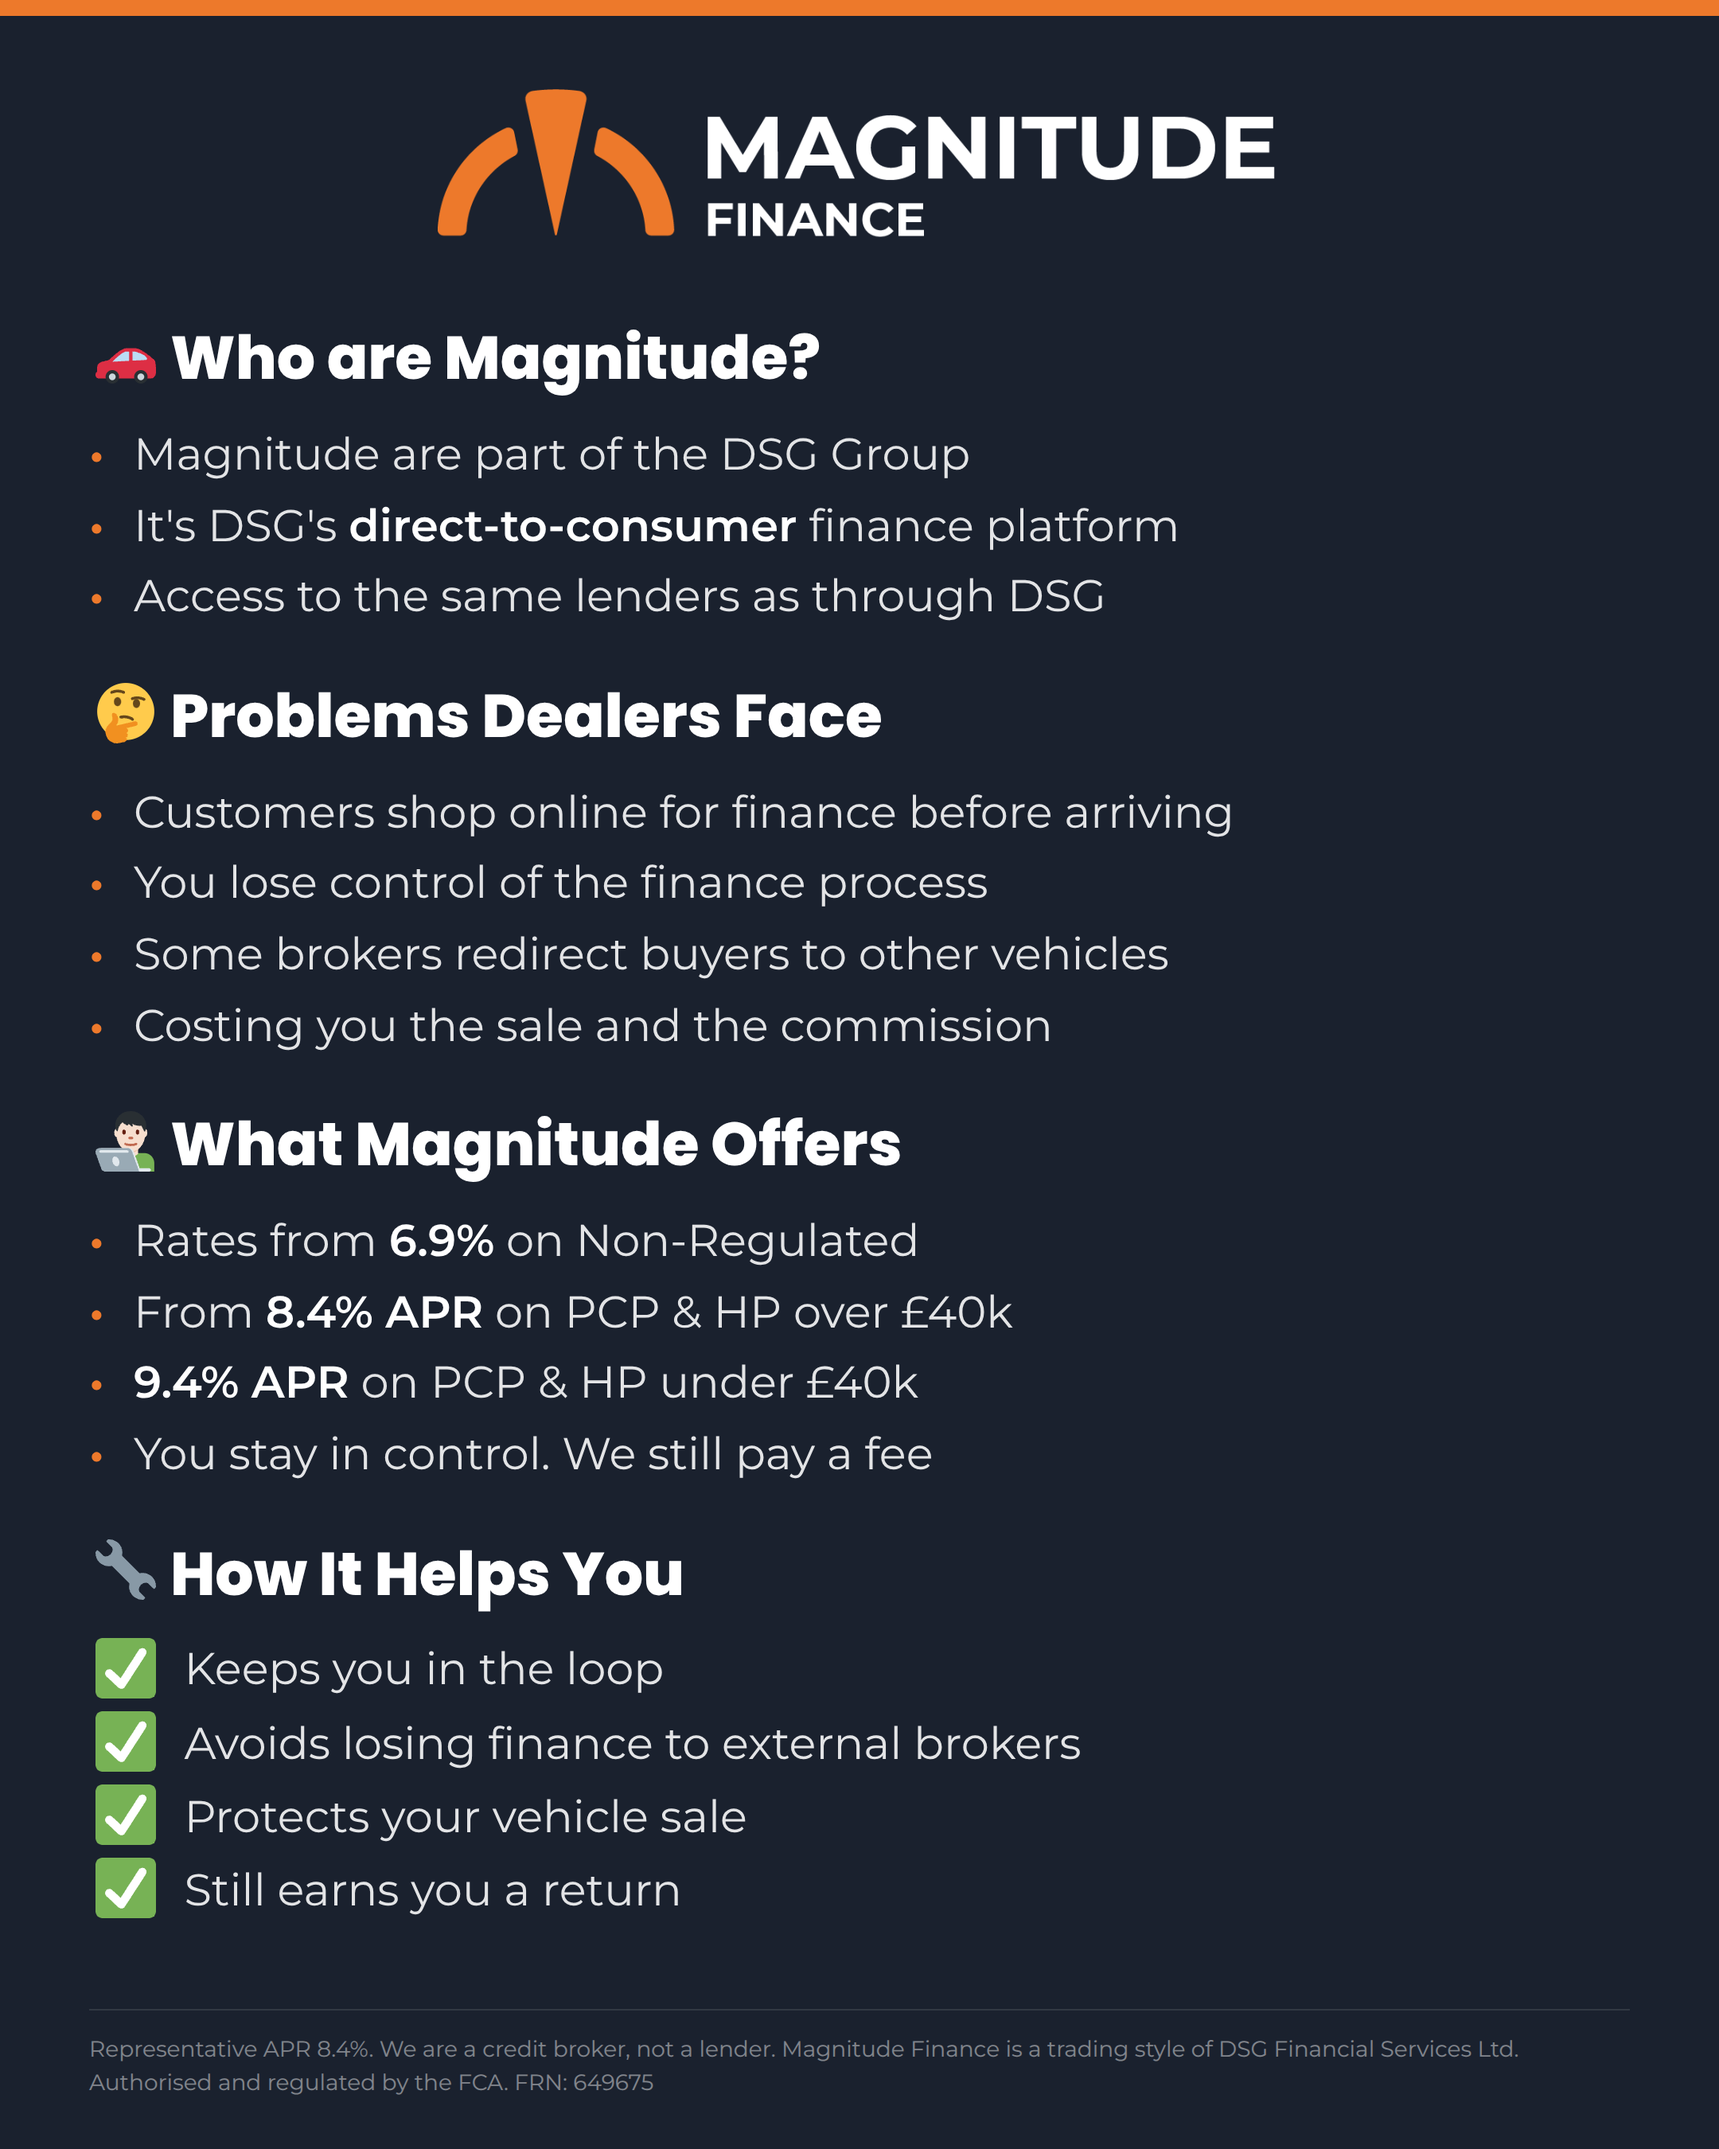
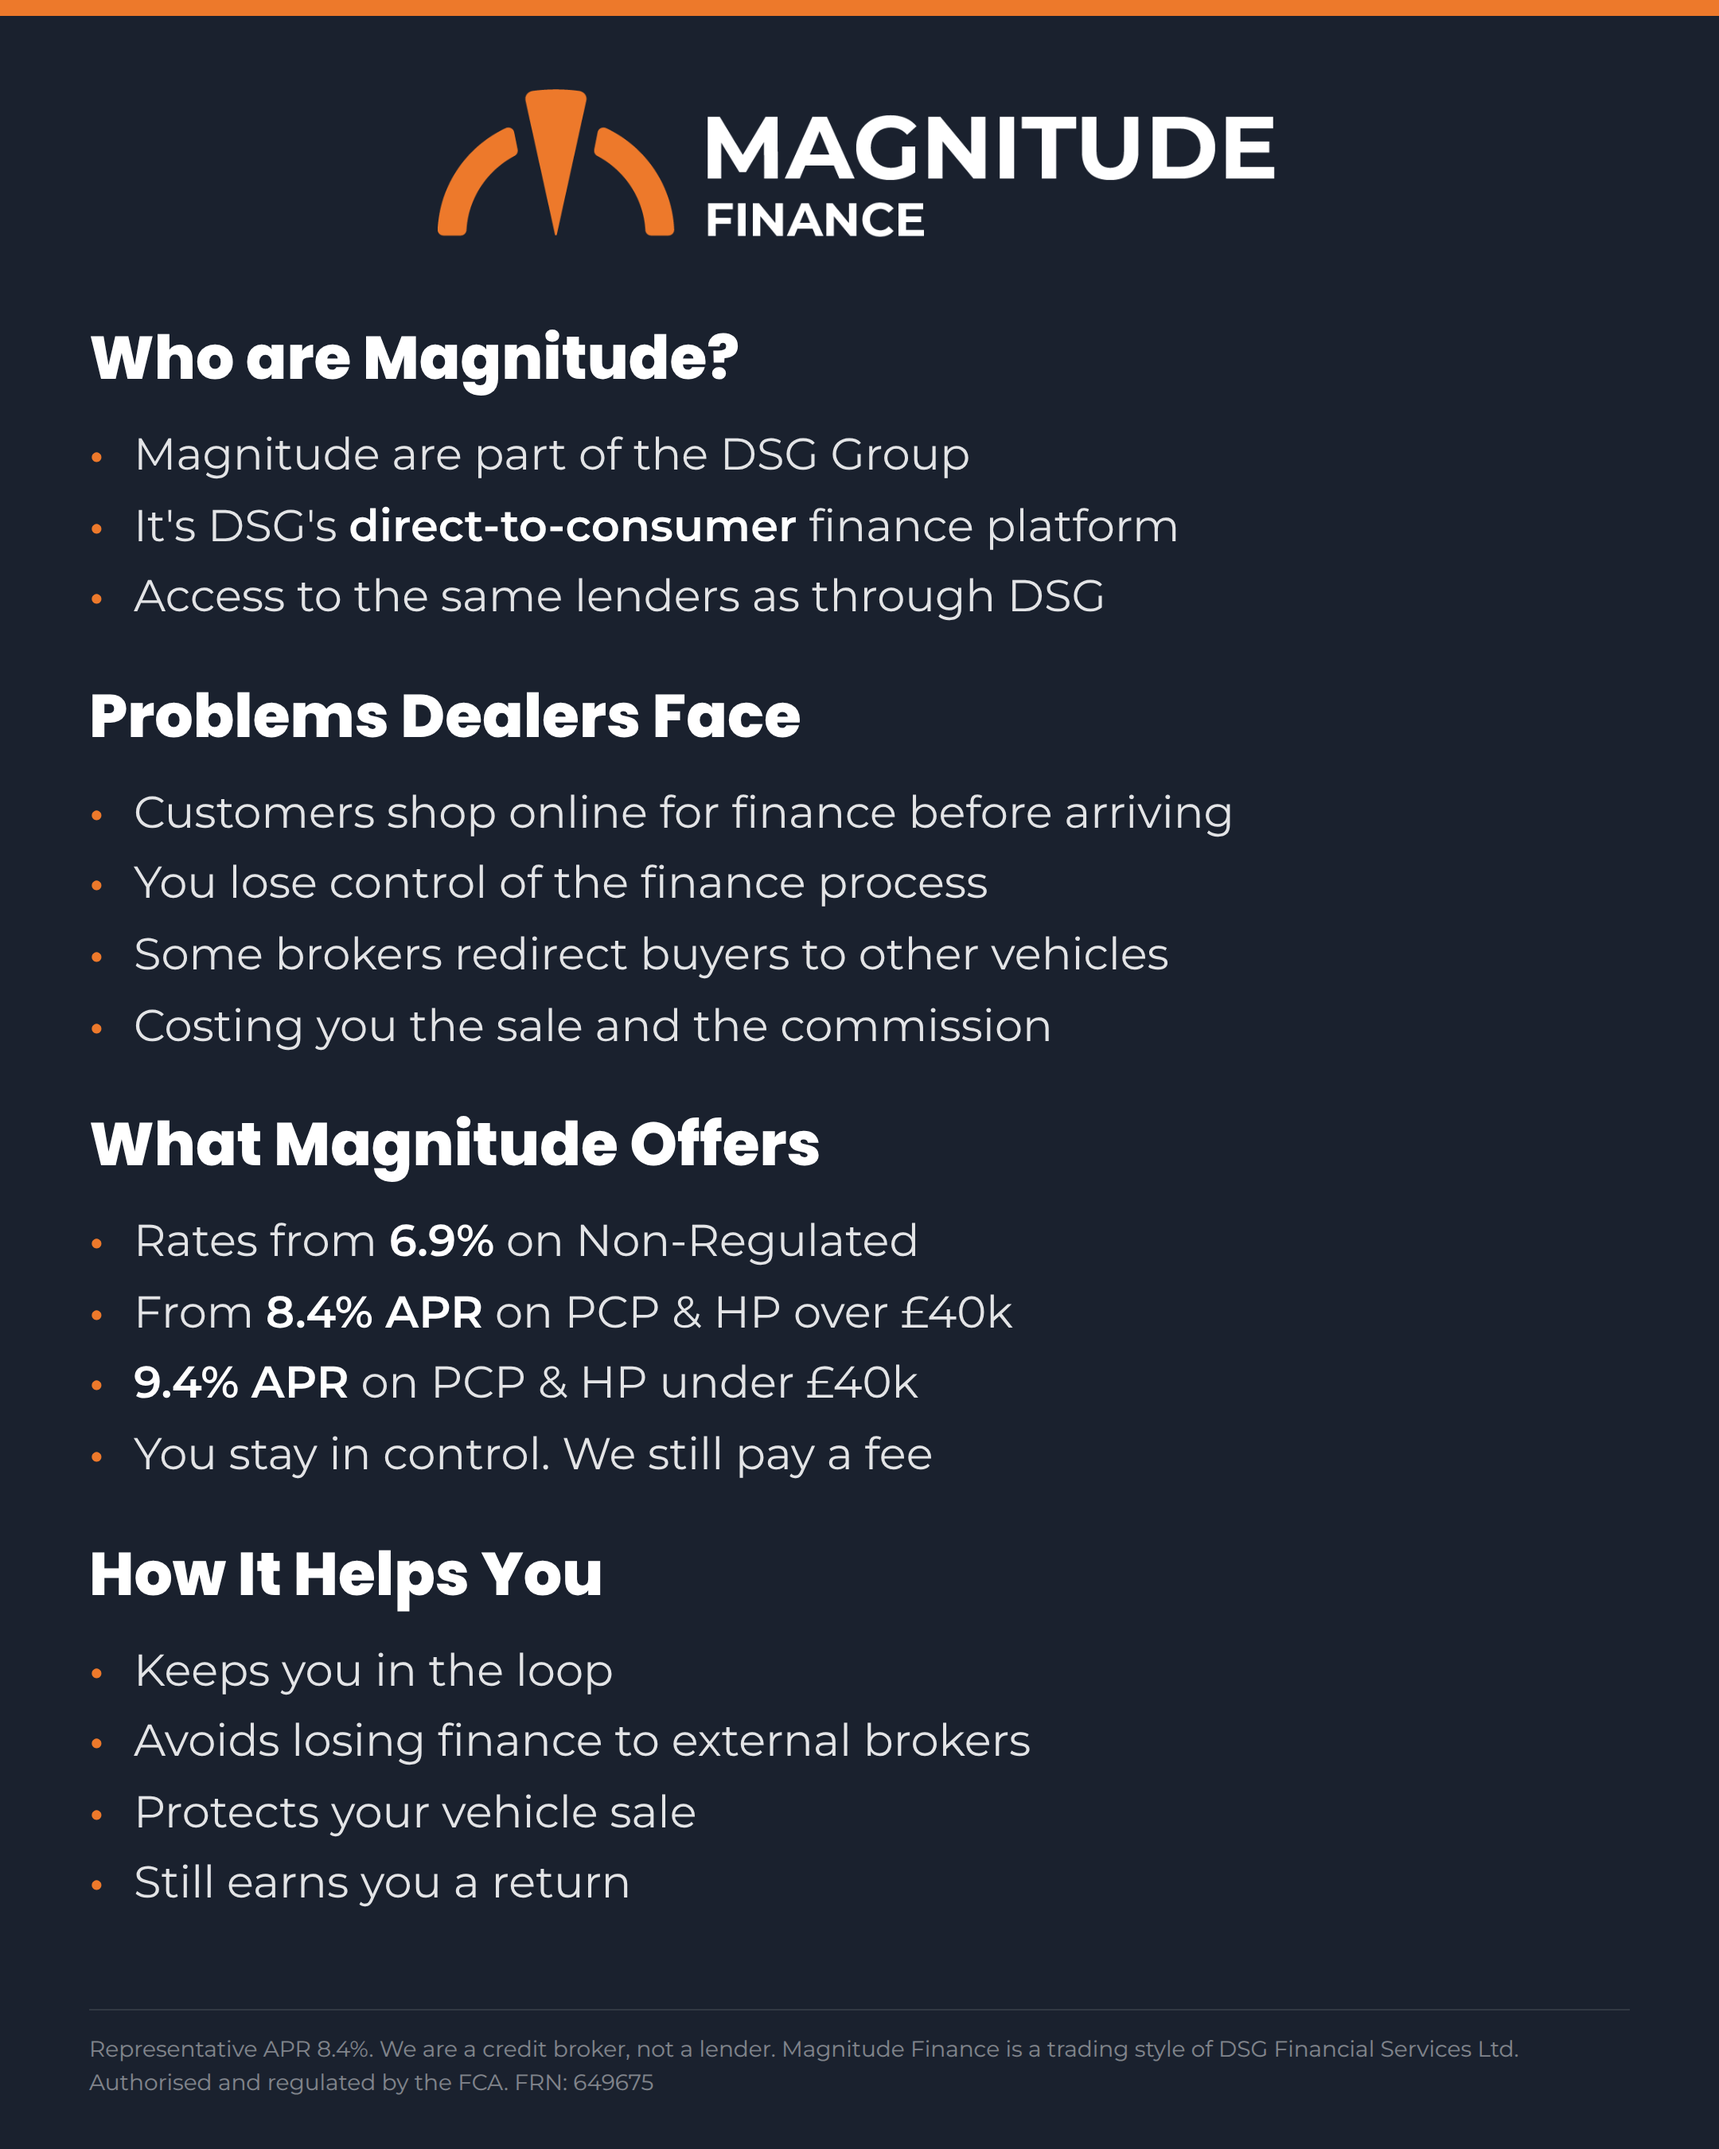
chore: cleaner explainer card without emojis, consistent bullets
Removed the four heading emojis and switched the green tick markers in
section 4 to the same orange bullet style used in sections 1-3 for visual
consistency. Re-rendered the PNG.

diff --git a/library/posts/magnitude/2026-05-01-magnitude-explainer-who-we-are/magnitude-explainer.html b/library/posts/magnitude/2026-05-01-magnitude-explainer-who-we-are/magnitude-explainer.html
@@ -21,7 +21,7 @@ Rules:
   </div>
 
   <!-- Section 1 -->
-  <div style="font-size:38px;font-weight:800;color:#fff;margin-bottom:12px;">🚗 Who are Magnitude?</div>
+  <div style="font-size:38px;font-weight:800;color:#fff;margin-bottom:12px;">Who are Magnitude?</div>
   <div style="font-family:Montserrat,sans-serif;font-size:28px;color:rgba(255,255,255,0.88);line-height:1.45;margin-bottom:26px;">
     <div style="padding-left:28px;position:relative;margin-bottom:4px;"><span style="position:absolute;left:0;color:#ED792B;font-weight:700;">•</span>Magnitude are part of the DSG Group</div>
     <div style="padding-left:28px;position:relative;margin-bottom:4px;"><span style="position:absolute;left:0;color:#ED792B;font-weight:700;">•</span>It's DSG's <strong style="color:#fff;">direct-to-consumer</strong> finance platform</div>
@@ -29,7 +29,7 @@ Rules:
   </div>
 
   <!-- Section 2 -->
-  <div style="font-size:38px;font-weight:800;color:#fff;margin-bottom:12px;">🤔 Problems Dealers Face</div>
+  <div style="font-size:38px;font-weight:800;color:#fff;margin-bottom:12px;">Problems Dealers Face</div>
   <div style="font-family:Montserrat,sans-serif;font-size:28px;color:rgba(255,255,255,0.88);line-height:1.45;margin-bottom:26px;">
     <div style="padding-left:28px;position:relative;margin-bottom:4px;"><span style="position:absolute;left:0;color:#ED792B;font-weight:700;">•</span>Customers shop online for finance before arriving</div>
     <div style="padding-left:28px;position:relative;margin-bottom:4px;"><span style="position:absolute;left:0;color:#ED792B;font-weight:700;">•</span>You lose control of the finance process</div>
@@ -38,7 +38,7 @@ Rules:
   </div>
 
   <!-- Section 3 -->
-  <div style="font-size:38px;font-weight:800;color:#fff;margin-bottom:12px;">👨🏻💻 What Magnitude Offers</div>
+  <div style="font-size:38px;font-weight:800;color:#fff;margin-bottom:12px;">What Magnitude Offers</div>
   <div style="font-family:Montserrat,sans-serif;font-size:28px;color:rgba(255,255,255,0.88);line-height:1.45;margin-bottom:26px;">
     <div style="padding-left:28px;position:relative;margin-bottom:4px;"><span style="position:absolute;left:0;color:#ED792B;font-weight:700;">•</span>Rates from <strong style="color:#fff;">6.9%</strong> on Non-Regulated</div>
     <div style="padding-left:28px;position:relative;margin-bottom:4px;"><span style="position:absolute;left:0;color:#ED792B;font-weight:700;">•</span>From <strong style="color:#fff;">8.4% APR</strong> on PCP &amp; HP over £40k</div>
@@ -47,12 +47,12 @@ Rules:
   </div>
 
   <!-- Section 4 -->
-  <div style="font-size:38px;font-weight:800;color:#fff;margin-bottom:12px;">🔧 How It Helps You</div>
-  <div style="font-family:Montserrat,sans-serif;color:rgba(255,255,255,0.88);">
-    <div style="display:flex;align-items:center;margin-bottom:6px;"><span style="font-size:38px;line-height:1;margin-right:16px;">✅</span><span style="font-size:28px;line-height:1.3;">Keeps you in the loop</span></div>
-    <div style="display:flex;align-items:center;margin-bottom:6px;"><span style="font-size:38px;line-height:1;margin-right:16px;">✅</span><span style="font-size:28px;line-height:1.3;">Avoids losing finance to external brokers</span></div>
-    <div style="display:flex;align-items:center;margin-bottom:6px;"><span style="font-size:38px;line-height:1;margin-right:16px;">✅</span><span style="font-size:28px;line-height:1.3;">Protects your vehicle sale</span></div>
-    <div style="display:flex;align-items:center;margin-bottom:6px;"><span style="font-size:38px;line-height:1;margin-right:16px;">✅</span><span style="font-size:28px;line-height:1.3;">Still earns you a return</span></div>
+  <div style="font-size:38px;font-weight:800;color:#fff;margin-bottom:12px;">How It Helps You</div>
+  <div style="font-family:Montserrat,sans-serif;font-size:28px;color:rgba(255,255,255,0.88);line-height:1.45;margin-bottom:26px;">
+    <div style="padding-left:28px;position:relative;margin-bottom:4px;"><span style="position:absolute;left:0;color:#ED792B;font-weight:700;">•</span>Keeps you in the loop</div>
+    <div style="padding-left:28px;position:relative;margin-bottom:4px;"><span style="position:absolute;left:0;color:#ED792B;font-weight:700;">•</span>Avoids losing finance to external brokers</div>
+    <div style="padding-left:28px;position:relative;margin-bottom:4px;"><span style="position:absolute;left:0;color:#ED792B;font-weight:700;">•</span>Protects your vehicle sale</div>
+    <div style="padding-left:28px;position:relative;margin-bottom:4px;"><span style="position:absolute;left:0;color:#ED792B;font-weight:700;">•</span>Still earns you a return</div>
   </div>
 
   <!-- FCA disclaimer (pinned bottom) -->
